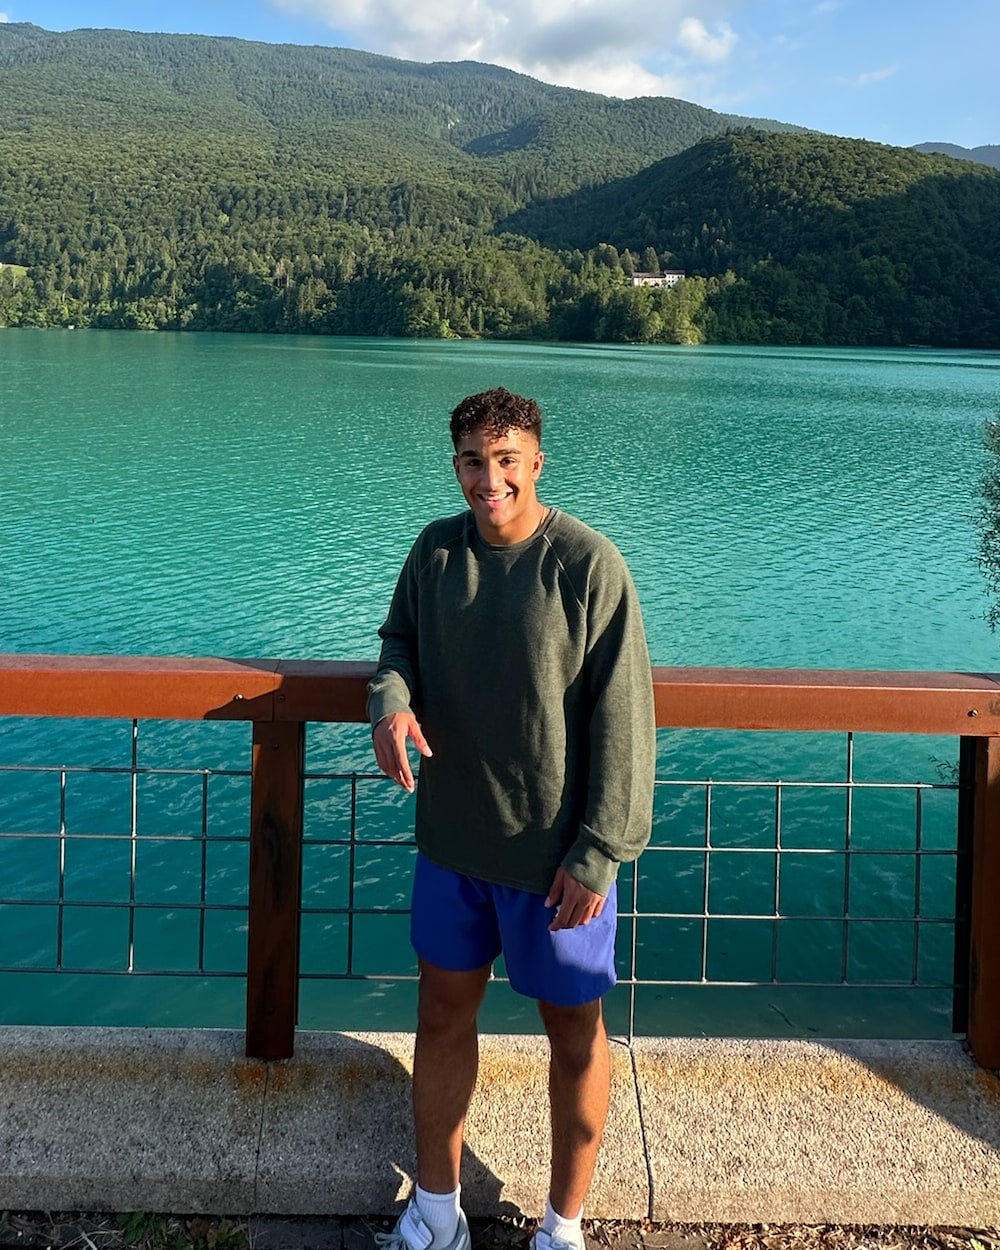
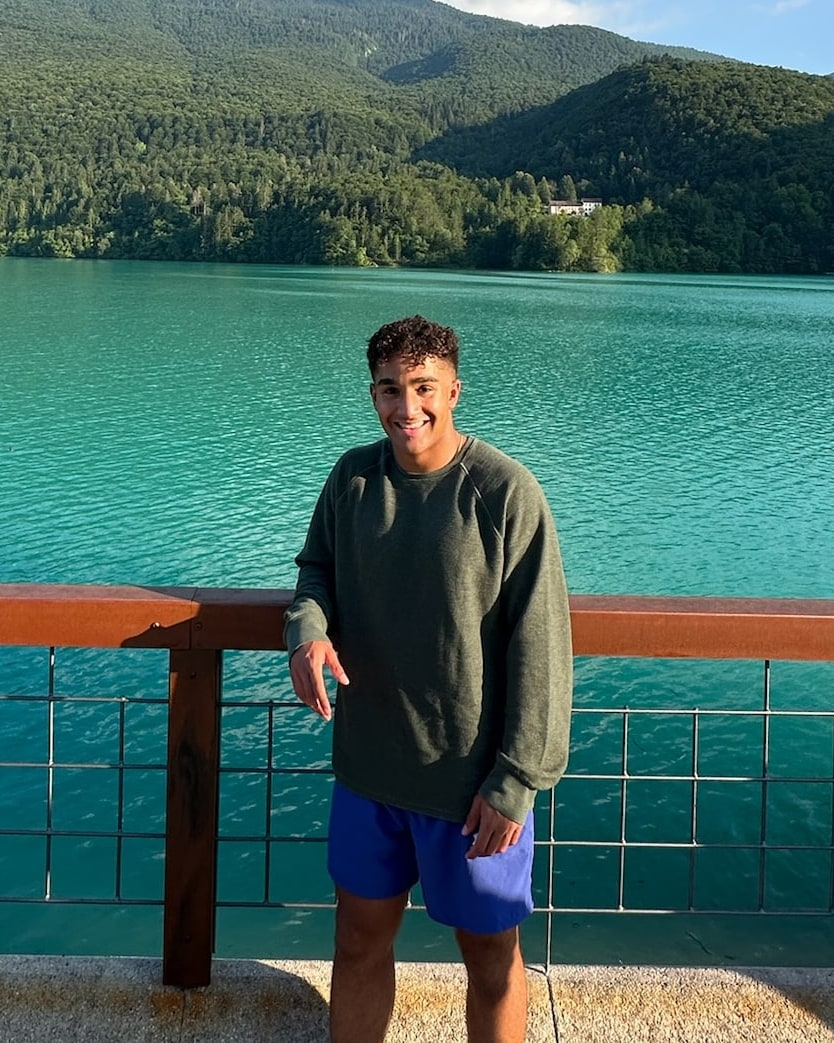
About: add the hike and portrait photos, zoom in on the lake
Five photos now, each cropped to the card's 4:5 with metadata stripped;
the hike photo is cropped to Christopher alone. The crossfade's keyframes,
cycle (now 25s), and delays are generated from the photo count, so adding
a photo no longer means editing CSS.

diff --git a/CLAUDE.md b/CLAUDE.md
@@ -44,11 +44,14 @@ truly needs it.
 - Layout: max-width ~1100px, centered. Everything must work at phone width.
 
 ## Content rules
-- About is a CSS-only crossfade of three photos (src/assets/about/,
-  metadata stripped: desert ride, the beret photo, the lake) and one short
-  line. Christopher chose the beret photo knowing it shows his uniform
-  tapes; don't add more photos like it, or photos of other people, without
-  asking. Nothing else biographical in text: no
+- About is a CSS-only crossfade of five photos (src/assets/about/,
+  metadata stripped, cropped to 4:5: desert ride, the beret photo, the lake,
+  the hike, the formal portrait) and a short two-paragraph blurb. The timing
+  is generated from the photo count, so adding one is just adding it to
+  `aboutPhotos`. Christopher chose the beret photo and the formal portrait
+  knowing they show his uniform; the hike photo is cropped so his friend
+  isn't in it. Don't add more photos like them, or photos of other people,
+  without asking. Nothing else biographical in text: no
   military content (rank, branch, unit, base, the Academy), school, degree,
   research, races or times, certifications, or philosophy lines.
 - Never describe Christopher with a title or role ("iOS developer",
